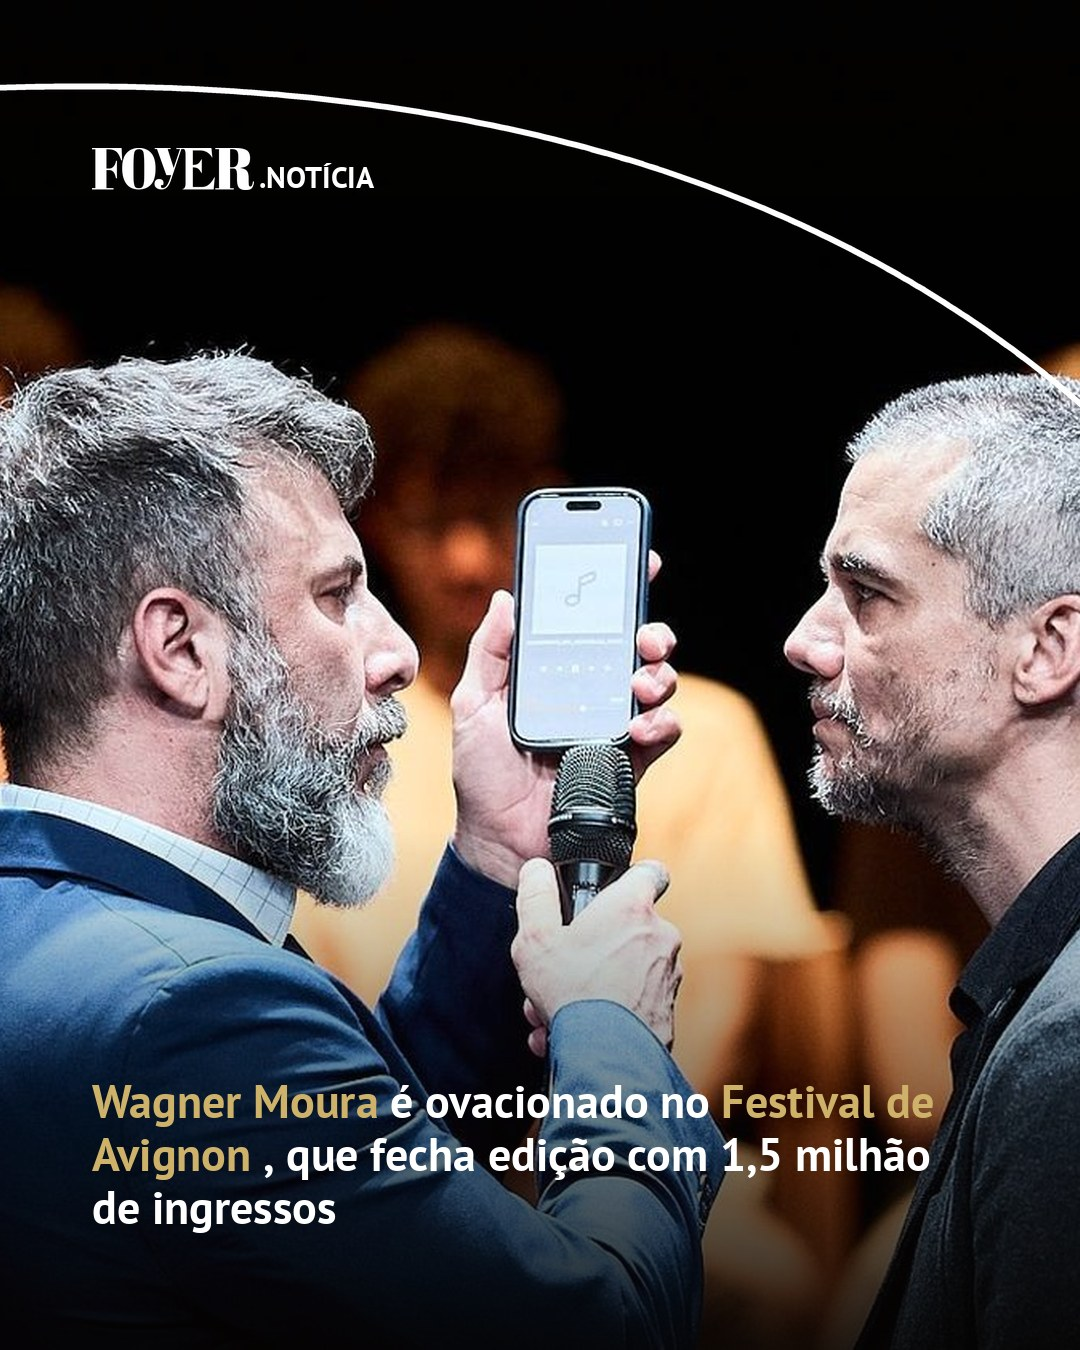
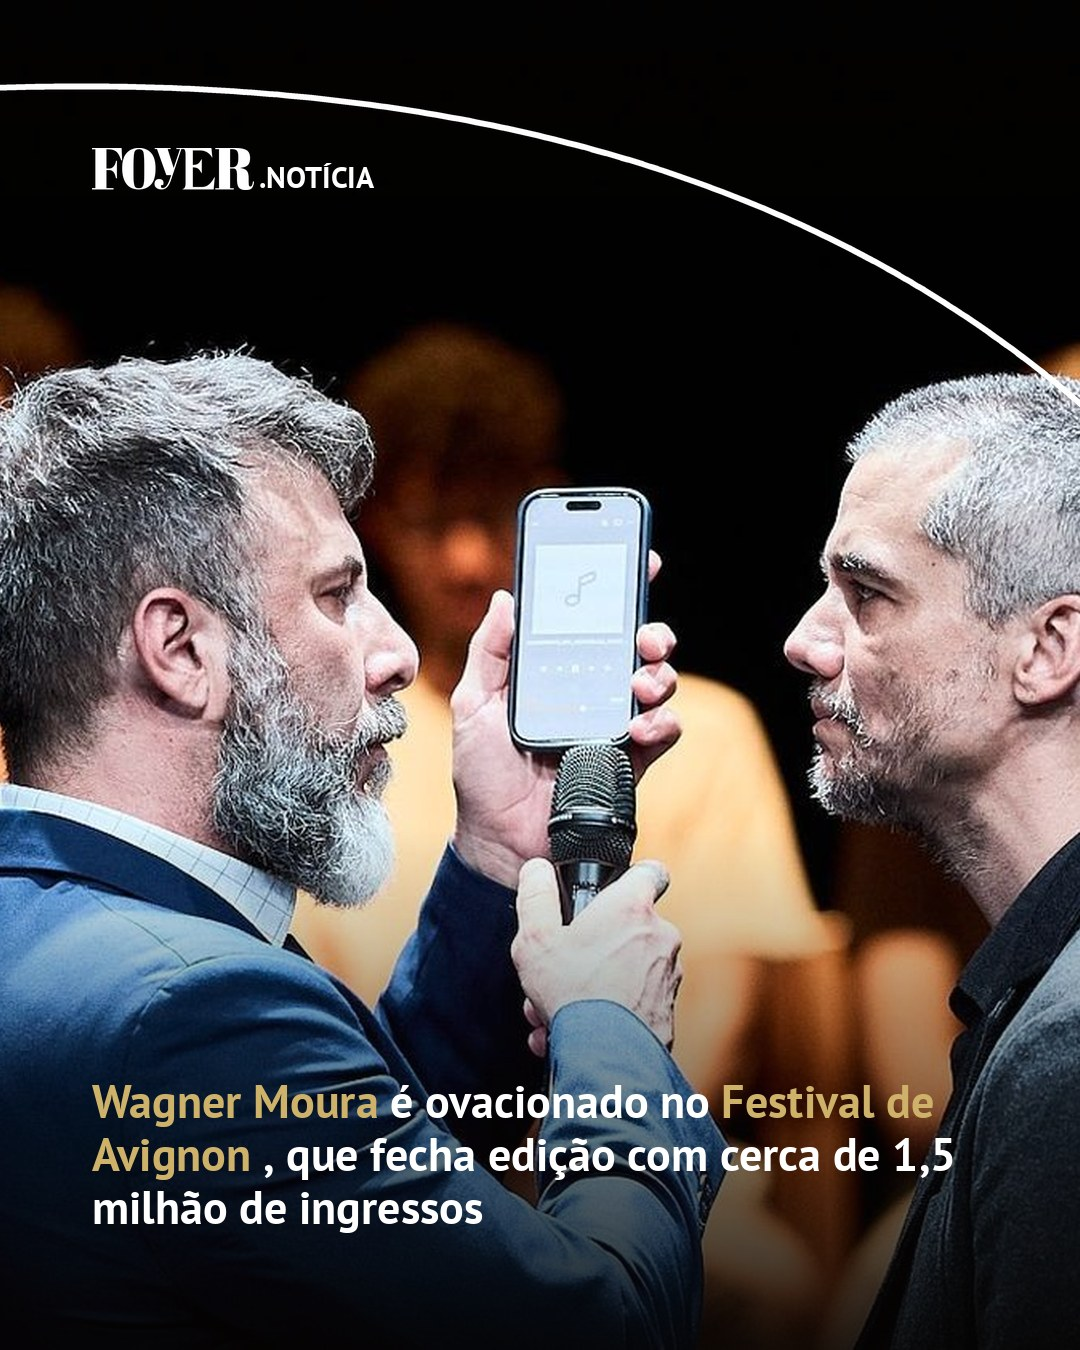
Checagem independente: correções de fatos nas 6 matérias do dia + campo checagem [skip ci]

Changed region(s): [[0.0917, 0.8711, 0.4583, 0.9333], [0.6722, 0.84, 0.8861, 0.8711]]

diff --git a/tools/audita_pauta.py b/tools/audita_pauta.py
@@ -100,7 +100,7 @@ def auditar(caminho):
         if linha.startswith('> '):
             if '"' not in linha and '“' not in linha:
                 avisos.append(f'CITAÇÃO SEM ASPAS: {linha[:70]}…')
-            elif not re.search(r'(afirma|diz|disse|conta|contou|explica|explicou|resume|declarou|escreveu|lembra|lembrou|avalia|avaliou|comenta|comentou|segundo)', linha):
+            elif not re.search(r'(afirm|diz|disse|cont[ao]|explic|resum|declar|escrev|lembr|avali|coment|acrescent|complet|defend|respond|segundo)', linha):
                 avisos.append(f'CITAÇÃO SEM ATRIBUIÇÃO na linha: {linha[:70]}…')
 
     # 8. Editorias
